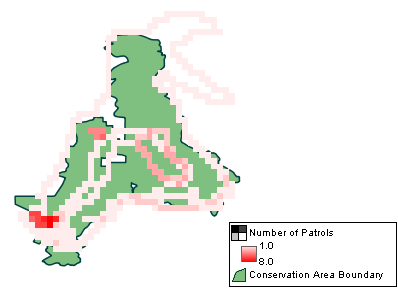
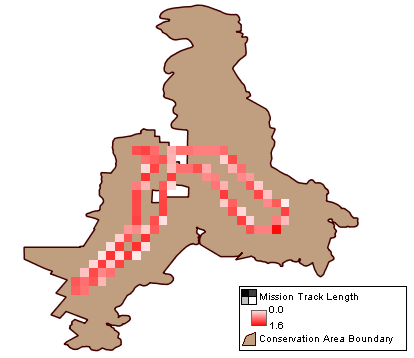
query bug fixes
git-svn-id: https://subversion.assembla.com/svn/smart-cs/trunk@3215 37136b1e-4cb1-4992-8394-573b48a9bdce

diff --git a/source/extensions/er/org.wcs.smart.er.query/src/org/wcs/smart/er/query/ui/dropitems/MissionMemberDropItem.java b/source/extensions/er/org.wcs.smart.er.query/src/org/wcs/smart/er/query/ui/dropitems/MissionMemberDropItem.java
@@ -34,6 +34,7 @@ import org.eclipse.core.runtime.jobs.Job;
 import org.eclipse.jface.viewers.ArrayContentProvider;
 import org.eclipse.jface.viewers.ComboViewer;
 import org.eclipse.jface.viewers.ISelectionChangedListener;
+import org.eclipse.jface.viewers.IStructuredSelection;
 import org.eclipse.jface.viewers.SelectionChangedEvent;
 import org.eclipse.jface.viewers.StructuredSelection;
 import org.eclipse.swt.SWT;
@@ -78,12 +79,12 @@ public class MissionMemberDropItem extends DropItem implements IFilterDropItem {
 			}
 			
 			final Employee lCurrentValue = currentValue;
+			
 			final List<Employee> data = new ArrayList<Employee>();
 			Session s = HibernateManager.openSession();
 			try {
 				List<Employee> employees = HibernateManager.getActiveEmployees(SmartDB.getCurrentConservationArea(), s);
 				data.addAll(employees);
-				
 				Collections.sort(data, new Comparator<Employee>() {
 					@Override
 					public int compare(Employee e0, Employee e1) {
@@ -149,15 +150,26 @@ public class MissionMemberDropItem extends DropItem implements IFilterDropItem {
 	 */
 	@Override
 	public String asQueryPart() {
-		Object x = ((StructuredSelection)value.getSelection()).getFirstElement();
-		if (x instanceof Employee){
-			if (isLeader){
-				return "s:missionleader:" + SmartUtils.encodeHex(((Employee)x).getUuid());  //$NON-NLS-1$
-			}else{
-				return "s:missionmember:" + SmartUtils.encodeHex(((Employee)x).getUuid()); //$NON-NLS-1$
+		Employee e = currentValue;
+		if (currentValue == null){
+			IStructuredSelection sel = (IStructuredSelection) value.getSelection();
+			if (sel != null && !sel.isEmpty()){
+				if (sel.getFirstElement() instanceof Employee){
+					e = (Employee) sel.getFirstElement();
+				}
 			}
 		}
-		return null;
+		
+		String key = ""; //$NON-NLS-1$
+		if (isLeader){
+			key = "s:missionleader:"; //$NON-NLS-1$
+		}else{
+			key = "s:missionmember:"; //$NON-NLS-1$
+		}
+		if (e != null){
+			key += SmartUtils.encodeHex(e.getUuid());
+		}
+		return key;
 	}
 
 	/**

diff --git a/source/extensions/er/org.wcs.smart.er.query/src/org/wcs/smart/er/query/filter/MissionMemberFilter.java b/source/extensions/er/org.wcs.smart.er.query/src/org/wcs/smart/er/query/filter/MissionMemberFilter.java
@@ -82,6 +82,7 @@ public class MissionMemberFilter implements IFilter {
 		if (e == null){
 			return new DropItem[]{new ErrorDropItem(MessageFormat.format(Messages.MissionMemberFilter_EmployeeNotFound, new Object[]{SmartUtils.encodeHex(uuid)}))};
 		}
+		e.getFullLabel();
 
 		DropItem di = null;
 		if (isLeader() ){